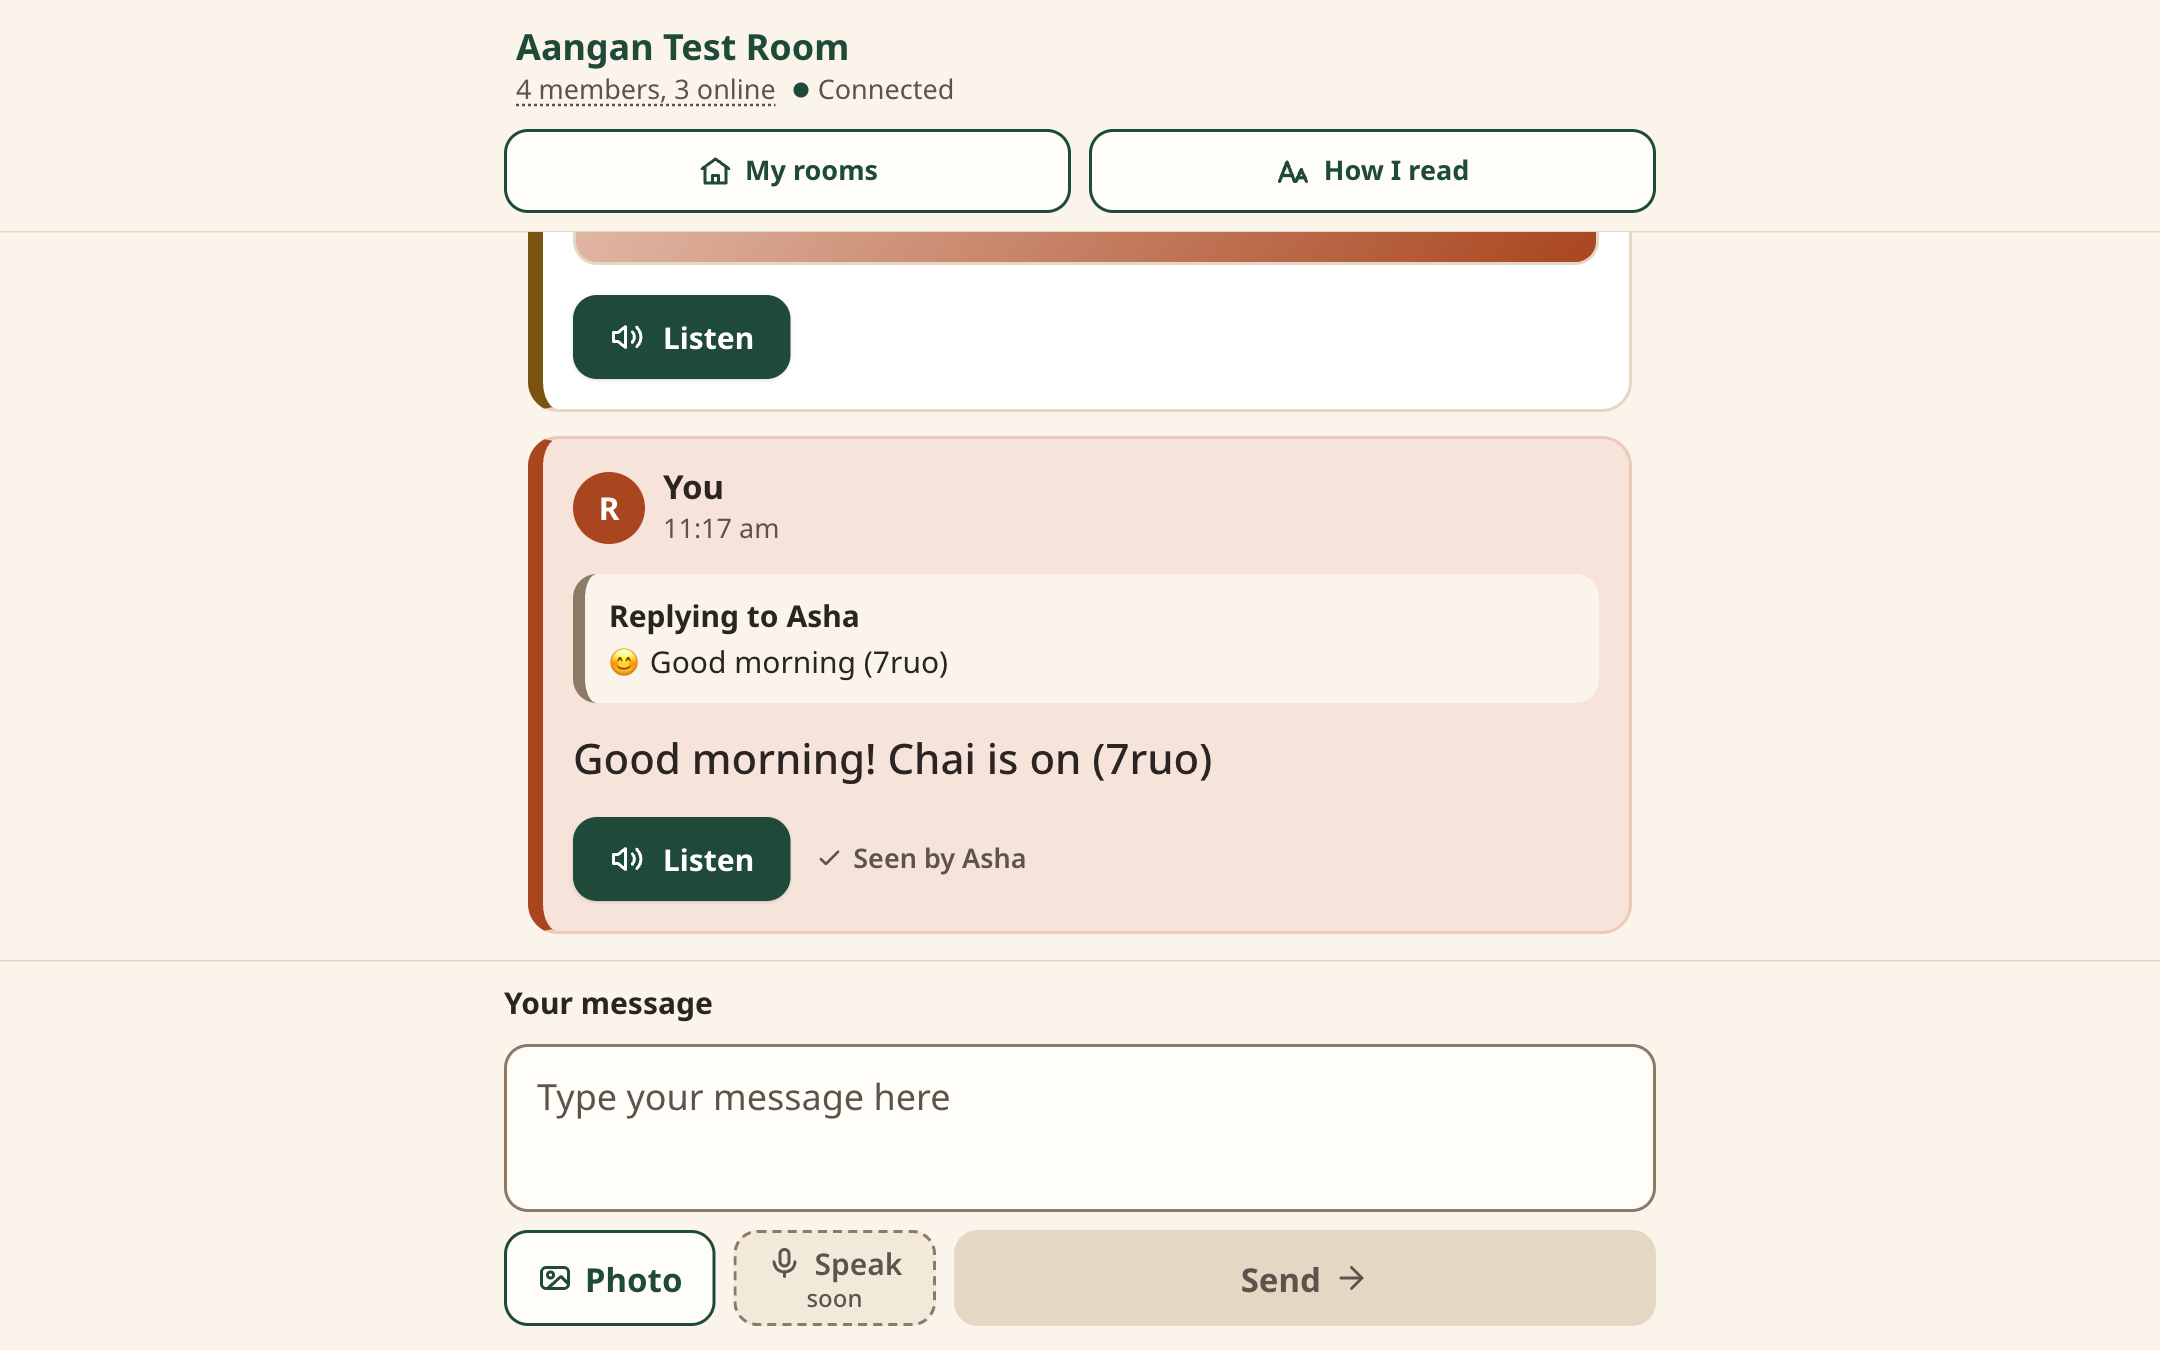
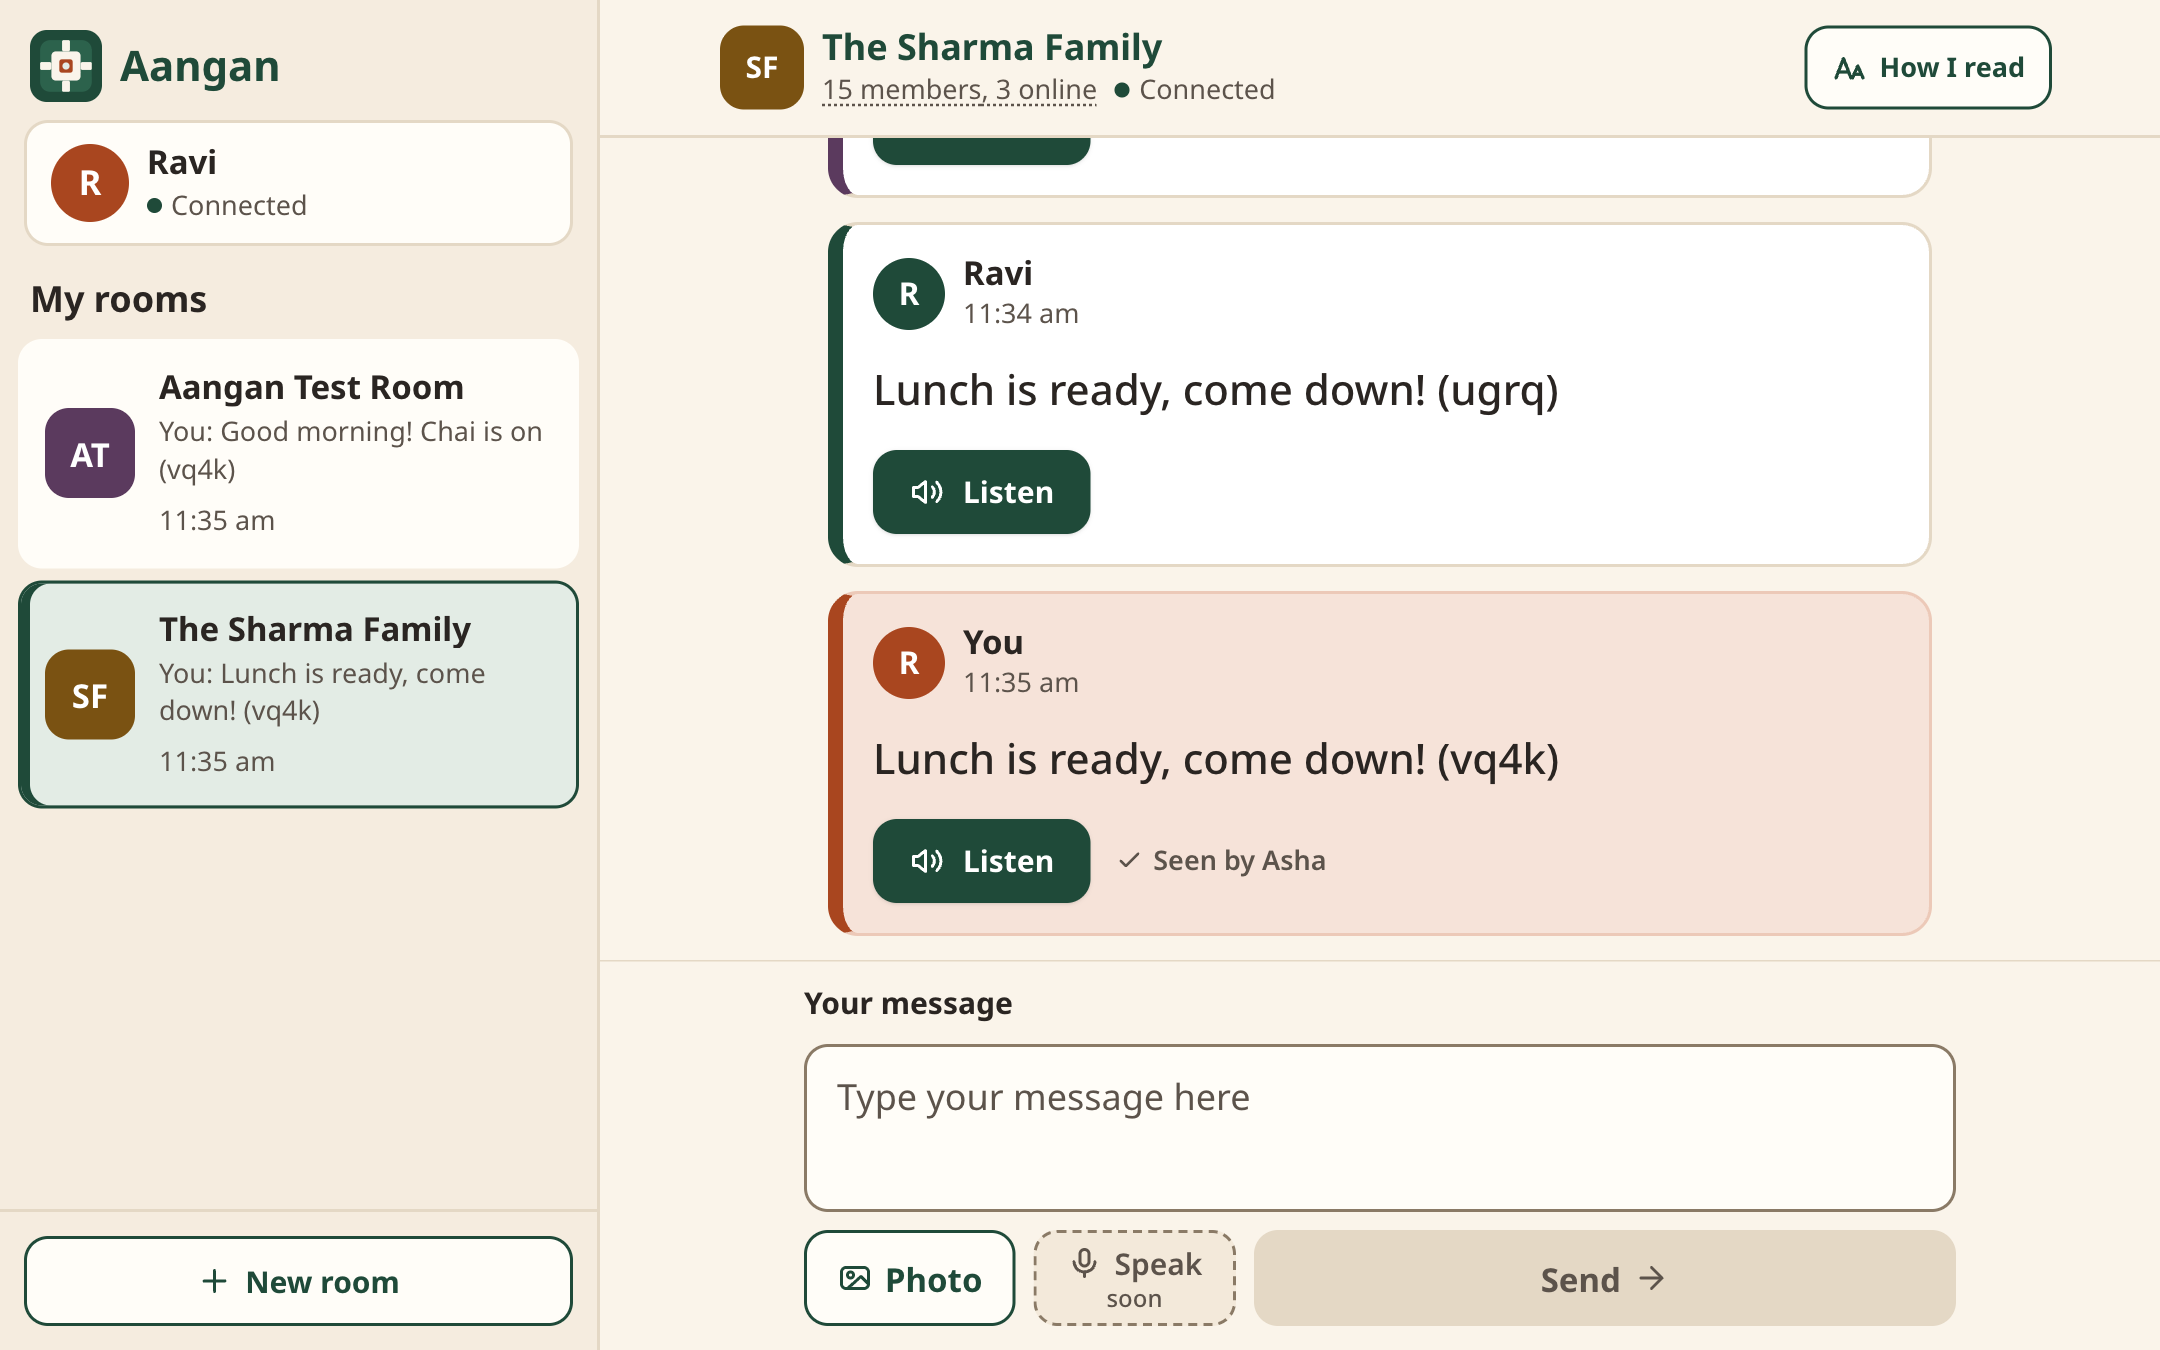
Comfort mode: rooms on the left, chat on the right
Comfort no longer hides rooms behind a "My rooms" sheet. On wide
screens a large, fully labelled room list sits on the left (big
rows, full room names, "3 new messages" spelled out, New room) and
the chat fills the right, like Telegram or WhatsApp Web. On phones
the room list is the home screen and the chat has a large labelled
"My rooms" back button.

diff --git a/web/src/components/comfort/ComfortRoom.tsx b/web/src/components/comfort/ComfortRoom.tsx
@@ -2,44 +2,45 @@ import { useState } from 'react';
 import type { Speech } from '../../features/reader-view';
 import { useRoom } from '../../hooks/useRoom';
 import type { RichMessage } from '../../nexconn/rich';
-import type { RoomSummary } from '../../nexconn/rooms';
 import type { ConnectionState } from '../../nexconn/types';
 import type { Session } from '../../session';
 import { ConnectionChip } from '../ConnectionChip';
-import { RoomsIcon, TextSizeIcon } from '../icons';
+import { BackIcon, TextSizeIcon } from '../icons';
 import { Lightbox } from '../Lightbox';
 import { MembersSheet } from '../MembersSheet';
 import { MessageList } from '../MessageList';
 import { PhotoSendSheet } from '../PhotoSendSheet';
 import { ToneProvider } from '../tones';
+import { RoomAvatar } from '../workspace/RoomAvatar';
 import { ComfortComposer } from './ComfortComposer';
-import { MyRoomsSheet } from './MyRoomsSheet';
 
 interface Props {
   session: Session;
   channelId: string;
   roomName: string;
-  rooms: RoomSummary[];
-  onSelectRoom: (channelId: string) => void;
   connection: ConnectionState;
   fatal: string | null;
   speech: Speech;
   onOpenReader: () => void;
   onSent: (msg: RichMessage) => void;
+  /** Phones: back to the room list (a large labelled button). */
+  onBack?: () => void;
+  /** Unread messages in other rooms, shown on the back button. */
+  otherUnread?: number;
 }
 
-// Comfort mode: one room at a time, large cards, every button labelled.
+// Comfort mode chat pane: large cards, every button labelled with text.
 export function ComfortRoom(props: Props) {
-  const { session, channelId, roomName, rooms, onSelectRoom, connection, fatal, speech, onOpenReader, onSent } = props;
+  const { session, channelId, roomName, connection, fatal, speech, onOpenReader, onSent, onBack, otherUnread = 0 } = props;
   const room = useRoom(session, channelId, connection);
-  const [roomsOpen, setRoomsOpen] = useState(false);
   const [membersOpen, setMembersOpen] = useState(false);
   const [photo, setPhoto] = useState<File | null>(null);
   const [lightbox, setLightbox] = useState<{ url: string; alt: string } | null>(null);
   const [prefill, setPrefill] = useState<{ text: string; nonce: number } | null>(null);
 
-  const otherUnread = rooms.filter((r) => r.channelId !== channelId).reduce((n, r) => n + r.unread, 0);
   const membersLine = room.memberCount === null ? null : `${room.memberCount} ${room.memberCount === 1 ? 'member' : 'members'}`;
+  const bigButton =
+    'inline-flex min-h-[56px] shrink-0 items-center justify-center gap-2 rounded-2xl border-2 border-green bg-surface px-4 text-[1.125rem] font-bold text-green hover:bg-green-soft';
 
   return (
     <ToneProvider tones={room.tones}>
@@ -47,39 +48,11 @@ export function ComfortRoom(props: Props) {
         <a href="#composer-input" className="skip-link">
           Skip to message box
         </a>
-        <header className="shrink-0 border-b border-line bg-cream px-4 py-3">
-          <div className="mx-auto flex max-w-3xl flex-col gap-2">
-            {/* Row 1: the room, given the full width. Tap for who's here. */}
-            <button
-              type="button"
-              onClick={() => setMembersOpen(true)}
-              aria-haspopup="dialog"
-              className="w-full rounded-2xl px-2 py-1 text-left hover:bg-sand"
-              style={{ minHeight: 56 }}
-            >
-              <span className="line-clamp-2 block font-bold leading-tight text-green" style={{ fontSize: 'var(--title-size)' }}>
-                {roomName}
-              </span>
-              <span className="flex flex-wrap items-center gap-x-3 text-[1.125rem] text-ink-muted">
-                {membersLine && (
-                  <span className="underline decoration-dotted underline-offset-4">
-                    {membersLine}
-                    {room.onlineCount ? `, ${room.onlineCount} online` : ''}
-                  </span>
-                )}
-                <ConnectionChip state={connection} />
-                <span className="sr-only">Show who is here</span>
-              </span>
-            </button>
-            {/* Row 2: large labelled buttons. */}
-            <div className="flex flex-wrap gap-3">
-              <button
-                type="button"
-                onClick={() => setRoomsOpen(true)}
-                aria-haspopup="dialog"
-                className="inline-flex min-h-[56px] flex-1 items-center justify-center gap-2 rounded-2xl border-2 border-green bg-surface px-4 text-[1.125rem] font-bold text-green hover:bg-green-soft"
-              >
-                <RoomsIcon />
+        <header className="shrink-0 border-b-2 border-line bg-cream px-4 py-3">
+          <div className="mx-auto flex max-w-4xl flex-wrap items-center gap-3">
+            {onBack && (
+              <button type="button" onClick={onBack} className={bigButton}>
+                <BackIcon />
                 <span className="whitespace-nowrap">My rooms</span>
                 {otherUnread > 0 && (
                   <span className="rounded-xl bg-terracotta px-2 text-white">
@@ -87,16 +60,36 @@ export function ComfortRoom(props: Props) {
                   </span>
                 )}
               </button>
-              <button
-                type="button"
-                onClick={onOpenReader}
-                aria-haspopup="dialog"
-                className="inline-flex min-h-[56px] flex-1 items-center justify-center gap-2 rounded-2xl border-2 border-green bg-surface px-4 text-[1.125rem] font-bold text-green hover:bg-green-soft"
-              >
-                <TextSizeIcon />
-                <span className="whitespace-nowrap">How I read</span>
-              </button>
-            </div>
+            )}
+            {/* The room: tap to see who is here. Takes its own full row on phones. */}
+            <button
+              type="button"
+              onClick={() => setMembersOpen(true)}
+              aria-haspopup="dialog"
+              className={`flex min-w-0 items-center gap-3 rounded-2xl px-2 py-1 text-left hover:bg-sand ${onBack ? 'order-last w-full' : 'flex-1'}`}
+              style={{ minHeight: 64 }}
+            >
+              <RoomAvatar id={channelId} name={roomName} size={56} />
+              <span className="min-w-0">
+                <span className="line-clamp-2 block font-bold leading-tight text-green" style={{ fontSize: 'var(--title-size)' }}>
+                  {roomName}
+                </span>
+                <span className="flex flex-wrap items-center gap-x-3 text-[1.125rem] text-ink-muted">
+                  {membersLine && (
+                    <span className="underline decoration-dotted underline-offset-4">
+                      {membersLine}
+                      {room.onlineCount ? `, ${room.onlineCount} online` : ''}
+                    </span>
+                  )}
+                  <ConnectionChip state={connection} />
+                  <span className="sr-only">Show who is here</span>
+                </span>
+              </span>
+            </button>
+            <button type="button" onClick={onOpenReader} aria-haspopup="dialog" className={`${bigButton} ${onBack ? 'ml-auto' : ''}`}>
+              <TextSizeIcon />
+              <span className="whitespace-nowrap">How I read</span>
+            </button>
           </div>
         </header>
 
@@ -132,7 +125,6 @@ export function ComfortRoom(props: Props) {
         </div>
       </section>
 
-      <MyRoomsSheet open={roomsOpen} onClose={() => setRoomsOpen(false)} rooms={rooms} activeId={channelId} myId={session.userId} onSelect={onSelectRoom} />
       <MembersSheet open={membersOpen} onClose={() => setMembersOpen(false)} members={room.members} myUserId={session.userId} presence={room.presence} />
       <PhotoSendSheet
         file={photo}

diff --git a/web/src/components/comfort/ComfortSidebar.tsx b/web/src/components/comfort/ComfortSidebar.tsx
@@ -1,0 +1,98 @@
+import type { RoomSummary } from '../../nexconn/rooms';
+import type { ConnectionState } from '../../nexconn/types';
+import { Avatar } from '../Avatar';
+import { BrandMark } from '../BrandMark';
+import { ConnectionChip } from '../ConnectionChip';
+import { PlusIcon } from '../icons';
+import { formatListTime, senderLabel } from '../messageModel';
+import { RoomAvatar } from '../workspace/RoomAvatar';
+
+interface Props {
+  rooms: RoomSummary[];
+  loaded: boolean;
+  activeId: string | null;
+  onSelect: (channelId: string) => void;
+  onNewRoom: () => void;
+  me: { userId: string; name: string };
+  connection: ConnectionState;
+  /** Phones: the room list is the whole screen. */
+  fullWidth?: boolean;
+}
+
+// Comfort room list: always visible on wide screens, the home screen on phones.
+// Big rows, large text, everything spelled out ("3 new messages"), no icon-only
+// buttons and nothing hidden behind a collapse toggle.
+export function ComfortSidebar({ rooms, loaded, activeId, onSelect, onNewRoom, me, connection, fullWidth }: Props) {
+  return (
+    <nav aria-label="Rooms" className={`flex h-full shrink-0 flex-col border-r-2 border-line bg-sand/70 ${fullWidth ? 'w-full' : 'w-[360px] xl:w-[400px]'}`}>
+      <div className="flex items-center gap-3 px-5 pb-3 pt-5">
+        <BrandMark size={48} />
+        <span className="text-[1.75rem] font-bold text-green">Aangan</span>
+      </div>
+
+      <div className="mx-4 mb-4 flex items-center gap-3 rounded-2xl border-2 border-line bg-surface px-4 py-3">
+        <Avatar id={me.userId} name={me.name} size={52} mine />
+        <div className="min-w-0">
+          <p className="truncate text-[1.375rem] font-bold leading-tight">{me.name}</p>
+          <p className="text-[1.125rem]">
+            <ConnectionChip state={connection} />
+          </p>
+        </div>
+      </div>
+
+      <h2 className="px-5 pb-2 text-[1.5rem] font-bold text-ink">My rooms</h2>
+
+      <ul className="min-h-0 flex-1 overflow-y-auto px-3 pb-3">
+        {!loaded && <li className="px-3 py-4 text-[1.25rem] text-ink-muted">Loading your rooms…</li>}
+        {rooms.map((r) => {
+          const active = r.channelId === activeId;
+          const who = r.last ? (r.last.senderId === me.userId ? 'You' : senderLabel(r.last)) : null;
+          const what = r.last ? (r.last.kind === 'image' ? 'sent a photo' : r.last.text) : 'No messages yet';
+          return (
+            <li key={r.channelId} className="mb-2">
+              <button
+                type="button"
+                onClick={() => onSelect(r.channelId)}
+                aria-current={active ? 'true' : undefined}
+                className={`flex w-full items-center gap-4 rounded-2xl border-2 p-4 text-left ${
+                  active
+                    ? 'border-green bg-green-soft shadow-[inset_6px_0_0_var(--color-green)]'
+                    : 'border-transparent bg-surface hover:border-line-strong'
+                }`}
+                style={{ minHeight: 96 }}
+              >
+                <RoomAvatar id={r.channelId} name={r.name} size={60} />
+                <span className="min-w-0 flex-1">
+                  {/* Full room name (wraps, never cut off), then the last message, then time + new count. */}
+                  <span className="room-name line-clamp-2 block text-[1.375rem] font-bold leading-tight text-ink">{r.name}</span>
+                  <span className="mt-1 line-clamp-2 block text-[1.125rem] leading-snug text-ink-muted">{who ? `${who}: ${what}` : what}</span>
+                  {(r.last || r.unread > 0) && (
+                    <span className="mt-2 flex flex-wrap items-center gap-x-3 gap-y-1">
+                      {r.last && <span className="text-[1.125rem] text-ink-muted">{formatListTime(r.last.sentAt)}</span>}
+                      {r.unread > 0 && (
+                        <span className="rounded-xl bg-terracotta px-3 py-0.5 text-[1.125rem] font-bold text-white">
+                          {r.unread} new {r.unread === 1 ? 'message' : 'messages'}
+                        </span>
+                      )}
+                    </span>
+                  )}
+                </span>
+              </button>
+            </li>
+          );
+        })}
+      </ul>
+
+      <div className="border-t-2 border-line p-4">
+        <button
+          type="button"
+          onClick={onNewRoom}
+          className="inline-flex min-h-[60px] w-full items-center justify-center gap-2 rounded-2xl border-2 border-green bg-surface text-[1.25rem] font-bold text-green hover:bg-green-soft"
+        >
+          <PlusIcon />
+          <span>New room</span>
+        </button>
+      </div>
+    </nav>
+  );
+}

diff --git a/web/src/components/workspace/Workspace.tsx b/web/src/components/workspace/Workspace.tsx
@@ -6,6 +6,7 @@ import { useRooms } from '../../hooks/useRooms';
 import * as nexconn from '../../nexconn/client';
 import { getLastRoom, setLastRoom, type Session } from '../../session';
 import { ComfortRoom } from '../comfort/ComfortRoom';
+import { ComfortSidebar } from '../comfort/ComfortSidebar';
 import { NewRoomSheet } from './NewRoomSheet';
 import { Sidebar } from './Sidebar';
 import { StandardRoom } from './StandardRoom';
@@ -95,20 +96,43 @@ export function Workspace({ session, onLogout, embedded = false, initialRoom }: 
 
   let body;
   if (comfort) {
-    body = (
+    // Comfort: rooms always visible on the left (wide), or the list first (phones).
+    const comfortList = (fullWidth: boolean) => (
+      <ComfortSidebar
+        rooms={rooms}
+        loaded={loaded}
+        activeId={fullWidth ? null : activeId}
+        onSelect={select}
+        onNewRoom={() => setNewRoomOpen(true)}
+        me={me}
+        connection={conn.state}
+        fullWidth={fullWidth}
+      />
+    );
+    const comfortRoom = (narrow: boolean) => (
       <ComfortRoom
         key={activeId}
         session={session}
         channelId={activeId}
         roomName={roomName}
-        rooms={rooms}
-        onSelectRoom={select}
         connection={conn.state}
         fatal={conn.fatal}
         speech={speech}
         onOpenReader={() => setReaderOpen(true)}
         onSent={noteMessage}
+        onBack={narrow ? () => setMobileView('list') : undefined}
+        otherUnread={rooms.filter((r) => r.channelId !== activeId).reduce((n, r) => n + r.unread, 0)}
       />
+    );
+    body = wide ? (
+      <>
+        {comfortList(false)}
+        {comfortRoom(false)}
+      </>
+    ) : mobileView === 'list' ? (
+      comfortList(true)
+    ) : (
+      comfortRoom(true)
     );
   } else if (wide) {
     body = (
